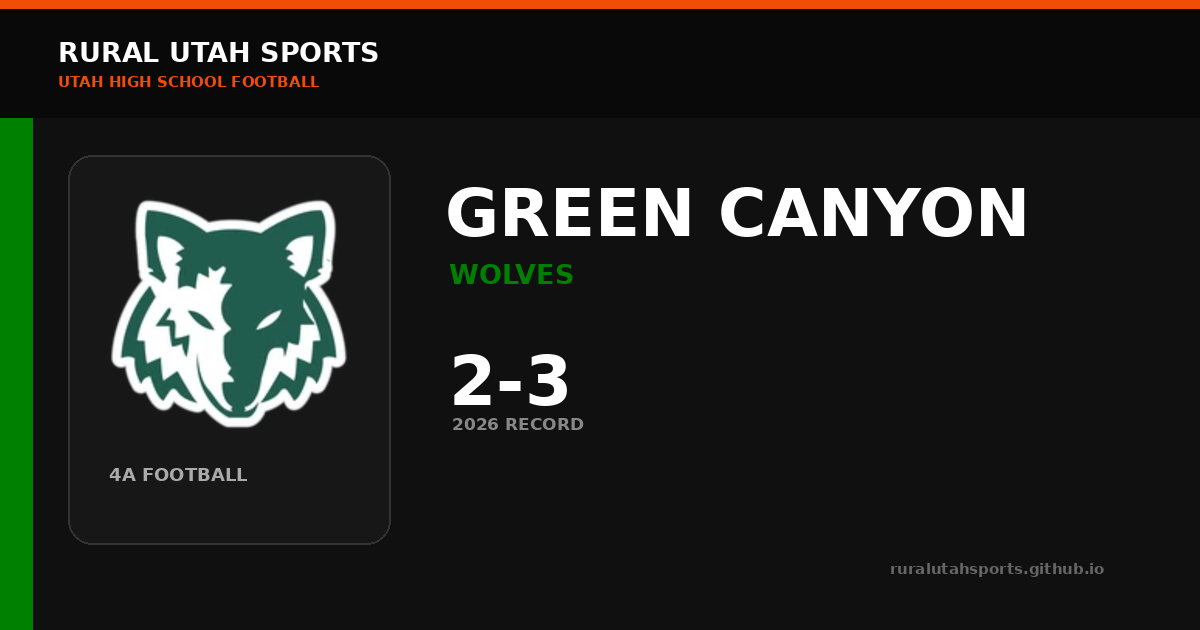
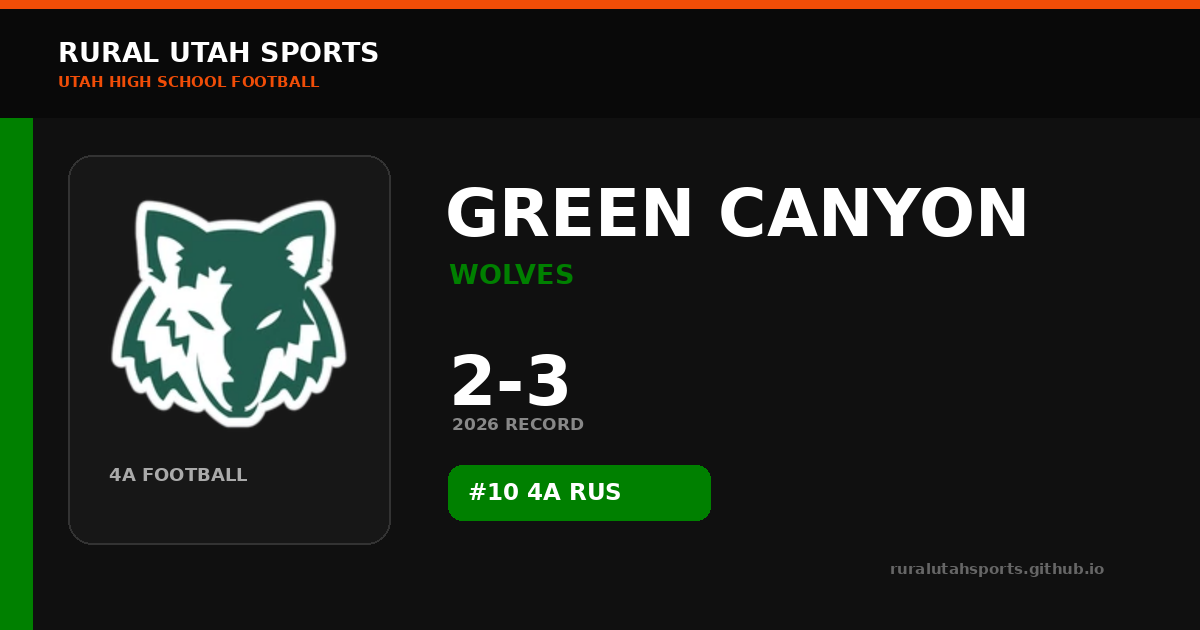
Auto-build social share previews

Changed region(s): [[0.37, 0.7238, 0.6167, 0.8444]]

diff --git a/share/team/mountain-crest/index.html b/share/team/mountain-crest/index.html
@@ -1,5 +1,5 @@
 <!doctype html><html lang="en"><head><meta charset="utf-8"><meta name="viewport" content="width=device-width,initial-scale=1">
-<title>Mountain Crest Mustangs Football | Rural Utah Sports</title><meta name="description" content="2026 4A football • 3-2 • #7 4A RUS. Team history, games, rankings, ELO and stats."><meta name="robots" content="noindex,follow"><link rel="canonical" href="https://ruralutahsports.github.io/rural-utah-sports/team.html?team=MOUNTAIN%20CREST">
-<meta property="og:type" content="website"><meta property="og:site_name" content="Rural Utah Sports"><meta property="og:title" content="Mountain Crest Mustangs Football | Rural Utah Sports"><meta property="og:description" content="2026 4A football • 3-2 • #7 4A RUS. Team history, games, rankings, ELO and stats."><meta property="og:url" content="https://ruralutahsports.github.io/rural-utah-sports/share/team/mountain-crest/"><meta property="og:image" content="https://ruralutahsports.github.io/rural-utah-sports/share-images/teams/mountain-crest.png"><meta property="og:image:width" content="1200"><meta property="og:image:height" content="630">
-<meta name="twitter:card" content="summary_large_image"><meta name="twitter:title" content="Mountain Crest Mustangs Football | Rural Utah Sports"><meta name="twitter:description" content="2026 4A football • 3-2 • #7 4A RUS. Team history, games, rankings, ELO and stats."><meta name="twitter:image" content="https://ruralutahsports.github.io/rural-utah-sports/share-images/teams/mountain-crest.png"><meta http-equiv="refresh" content="0;url=https://ruralutahsports.github.io/rural-utah-sports/team.html?team=MOUNTAIN%20CREST">
+<title>Mountain Crest Mustangs Football | Rural Utah Sports</title><meta name="description" content="2026 4A football • 3-2 • #9 4A RUS. Team history, games, rankings, ELO and stats."><meta name="robots" content="noindex,follow"><link rel="canonical" href="https://ruralutahsports.github.io/rural-utah-sports/team.html?team=MOUNTAIN%20CREST">
+<meta property="og:type" content="website"><meta property="og:site_name" content="Rural Utah Sports"><meta property="og:title" content="Mountain Crest Mustangs Football | Rural Utah Sports"><meta property="og:description" content="2026 4A football • 3-2 • #9 4A RUS. Team history, games, rankings, ELO and stats."><meta property="og:url" content="https://ruralutahsports.github.io/rural-utah-sports/share/team/mountain-crest/"><meta property="og:image" content="https://ruralutahsports.github.io/rural-utah-sports/share-images/teams/mountain-crest.png"><meta property="og:image:width" content="1200"><meta property="og:image:height" content="630">
+<meta name="twitter:card" content="summary_large_image"><meta name="twitter:title" content="Mountain Crest Mustangs Football | Rural Utah Sports"><meta name="twitter:description" content="2026 4A football • 3-2 • #9 4A RUS. Team history, games, rankings, ELO and stats."><meta name="twitter:image" content="https://ruralutahsports.github.io/rural-utah-sports/share-images/teams/mountain-crest.png"><meta http-equiv="refresh" content="0;url=https://ruralutahsports.github.io/rural-utah-sports/team.html?team=MOUNTAIN%20CREST">
 <style>body{margin:0;background:#111;color:#fff;font:16px Arial,sans-serif;display:grid;place-items:center;min-height:100vh}a{color:#F14D07;font-weight:800}</style></head><body><p>Opening <a href="https://ruralutahsports.github.io/rural-utah-sports/team.html?team=MOUNTAIN%20CREST">Mountain Crest Mustangs Football | Rural Utah Sports</a>…</p><script>location.replace("https://ruralutahsports.github.io/rural-utah-sports/team.html?team=MOUNTAIN%20CREST");</script></body></html>

diff --git a/share/team/snow-canyon/index.html b/share/team/snow-canyon/index.html
@@ -1,5 +1,5 @@
 <!doctype html><html lang="en"><head><meta charset="utf-8"><meta name="viewport" content="width=device-width,initial-scale=1">
-<title>Snow Canyon Warriors Football | Rural Utah Sports</title><meta name="description" content="2026 4A football • 3-2 • #9 4A RUS. Team history, games, rankings, ELO and stats."><meta name="robots" content="noindex,follow"><link rel="canonical" href="https://ruralutahsports.github.io/rural-utah-sports/team.html?team=SNOW%20CANYON">
-<meta property="og:type" content="website"><meta property="og:site_name" content="Rural Utah Sports"><meta property="og:title" content="Snow Canyon Warriors Football | Rural Utah Sports"><meta property="og:description" content="2026 4A football • 3-2 • #9 4A RUS. Team history, games, rankings, ELO and stats."><meta property="og:url" content="https://ruralutahsports.github.io/rural-utah-sports/share/team/snow-canyon/"><meta property="og:image" content="https://ruralutahsports.github.io/rural-utah-sports/share-images/teams/snow-canyon.png"><meta property="og:image:width" content="1200"><meta property="og:image:height" content="630">
-<meta name="twitter:card" content="summary_large_image"><meta name="twitter:title" content="Snow Canyon Warriors Football | Rural Utah Sports"><meta name="twitter:description" content="2026 4A football • 3-2 • #9 4A RUS. Team history, games, rankings, ELO and stats."><meta name="twitter:image" content="https://ruralutahsports.github.io/rural-utah-sports/share-images/teams/snow-canyon.png"><meta http-equiv="refresh" content="0;url=https://ruralutahsports.github.io/rural-utah-sports/team.html?team=SNOW%20CANYON">
+<title>Snow Canyon Warriors Football | Rural Utah Sports</title><meta name="description" content="2026 4A football • 3-2 • #7 4A RUS. Team history, games, rankings, ELO and stats."><meta name="robots" content="noindex,follow"><link rel="canonical" href="https://ruralutahsports.github.io/rural-utah-sports/team.html?team=SNOW%20CANYON">
+<meta property="og:type" content="website"><meta property="og:site_name" content="Rural Utah Sports"><meta property="og:title" content="Snow Canyon Warriors Football | Rural Utah Sports"><meta property="og:description" content="2026 4A football • 3-2 • #7 4A RUS. Team history, games, rankings, ELO and stats."><meta property="og:url" content="https://ruralutahsports.github.io/rural-utah-sports/share/team/snow-canyon/"><meta property="og:image" content="https://ruralutahsports.github.io/rural-utah-sports/share-images/teams/snow-canyon.png"><meta property="og:image:width" content="1200"><meta property="og:image:height" content="630">
+<meta name="twitter:card" content="summary_large_image"><meta name="twitter:title" content="Snow Canyon Warriors Football | Rural Utah Sports"><meta name="twitter:description" content="2026 4A football • 3-2 • #7 4A RUS. Team history, games, rankings, ELO and stats."><meta name="twitter:image" content="https://ruralutahsports.github.io/rural-utah-sports/share-images/teams/snow-canyon.png"><meta http-equiv="refresh" content="0;url=https://ruralutahsports.github.io/rural-utah-sports/team.html?team=SNOW%20CANYON">
 <style>body{margin:0;background:#111;color:#fff;font:16px Arial,sans-serif;display:grid;place-items:center;min-height:100vh}a{color:#F14D07;font-weight:800}</style></head><body><p>Opening <a href="https://ruralutahsports.github.io/rural-utah-sports/team.html?team=SNOW%20CANYON">Snow Canyon Warriors Football | Rural Utah Sports</a>…</p><script>location.replace("https://ruralutahsports.github.io/rural-utah-sports/team.html?team=SNOW%20CANYON");</script></body></html>

diff --git a/share/team/desert-hills/index.html b/share/team/desert-hills/index.html
@@ -1,5 +1,5 @@
 <!doctype html><html lang="en"><head><meta charset="utf-8"><meta name="viewport" content="width=device-width,initial-scale=1">
-<title>Desert Hills Thunder Football | Rural Utah Sports</title><meta name="description" content="2026 4A football • 2-3 • #10 4A RUS. Team history, games, rankings, ELO and stats."><meta name="robots" content="noindex,follow"><link rel="canonical" href="https://ruralutahsports.github.io/rural-utah-sports/team.html?team=DESERT%20HILLS">
-<meta property="og:type" content="website"><meta property="og:site_name" content="Rural Utah Sports"><meta property="og:title" content="Desert Hills Thunder Football | Rural Utah Sports"><meta property="og:description" content="2026 4A football • 2-3 • #10 4A RUS. Team history, games, rankings, ELO and stats."><meta property="og:url" content="https://ruralutahsports.github.io/rural-utah-sports/share/team/desert-hills/"><meta property="og:image" content="https://ruralutahsports.github.io/rural-utah-sports/share-images/teams/desert-hills.png"><meta property="og:image:width" content="1200"><meta property="og:image:height" content="630">
-<meta name="twitter:card" content="summary_large_image"><meta name="twitter:title" content="Desert Hills Thunder Football | Rural Utah Sports"><meta name="twitter:description" content="2026 4A football • 2-3 • #10 4A RUS. Team history, games, rankings, ELO and stats."><meta name="twitter:image" content="https://ruralutahsports.github.io/rural-utah-sports/share-images/teams/desert-hills.png"><meta http-equiv="refresh" content="0;url=https://ruralutahsports.github.io/rural-utah-sports/team.html?team=DESERT%20HILLS">
+<title>Desert Hills Thunder Football | Rural Utah Sports</title><meta name="description" content="2026 4A football • 2-3. Team history, games, rankings, ELO and stats."><meta name="robots" content="noindex,follow"><link rel="canonical" href="https://ruralutahsports.github.io/rural-utah-sports/team.html?team=DESERT%20HILLS">
+<meta property="og:type" content="website"><meta property="og:site_name" content="Rural Utah Sports"><meta property="og:title" content="Desert Hills Thunder Football | Rural Utah Sports"><meta property="og:description" content="2026 4A football • 2-3. Team history, games, rankings, ELO and stats."><meta property="og:url" content="https://ruralutahsports.github.io/rural-utah-sports/share/team/desert-hills/"><meta property="og:image" content="https://ruralutahsports.github.io/rural-utah-sports/share-images/teams/desert-hills.png"><meta property="og:image:width" content="1200"><meta property="og:image:height" content="630">
+<meta name="twitter:card" content="summary_large_image"><meta name="twitter:title" content="Desert Hills Thunder Football | Rural Utah Sports"><meta name="twitter:description" content="2026 4A football • 2-3. Team history, games, rankings, ELO and stats."><meta name="twitter:image" content="https://ruralutahsports.github.io/rural-utah-sports/share-images/teams/desert-hills.png"><meta http-equiv="refresh" content="0;url=https://ruralutahsports.github.io/rural-utah-sports/team.html?team=DESERT%20HILLS">
 <style>body{margin:0;background:#111;color:#fff;font:16px Arial,sans-serif;display:grid;place-items:center;min-height:100vh}a{color:#F14D07;font-weight:800}</style></head><body><p>Opening <a href="https://ruralutahsports.github.io/rural-utah-sports/team.html?team=DESERT%20HILLS">Desert Hills Thunder Football | Rural Utah Sports</a>…</p><script>location.replace("https://ruralutahsports.github.io/rural-utah-sports/team.html?team=DESERT%20HILLS");</script></body></html>

diff --git a/share/team/green-canyon/index.html b/share/team/green-canyon/index.html
@@ -1,5 +1,5 @@
 <!doctype html><html lang="en"><head><meta charset="utf-8"><meta name="viewport" content="width=device-width,initial-scale=1">
-<title>Green Canyon Wolves Football | Rural Utah Sports</title><meta name="description" content="2026 4A football • 2-3. Team history, games, rankings, ELO and stats."><meta name="robots" content="noindex,follow"><link rel="canonical" href="https://ruralutahsports.github.io/rural-utah-sports/team.html?team=GREEN%20CANYON">
-<meta property="og:type" content="website"><meta property="og:site_name" content="Rural Utah Sports"><meta property="og:title" content="Green Canyon Wolves Football | Rural Utah Sports"><meta property="og:description" content="2026 4A football • 2-3. Team history, games, rankings, ELO and stats."><meta property="og:url" content="https://ruralutahsports.github.io/rural-utah-sports/share/team/green-canyon/"><meta property="og:image" content="https://ruralutahsports.github.io/rural-utah-sports/share-images/teams/green-canyon.png"><meta property="og:image:width" content="1200"><meta property="og:image:height" content="630">
-<meta name="twitter:card" content="summary_large_image"><meta name="twitter:title" content="Green Canyon Wolves Football | Rural Utah Sports"><meta name="twitter:description" content="2026 4A football • 2-3. Team history, games, rankings, ELO and stats."><meta name="twitter:image" content="https://ruralutahsports.github.io/rural-utah-sports/share-images/teams/green-canyon.png"><meta http-equiv="refresh" content="0;url=https://ruralutahsports.github.io/rural-utah-sports/team.html?team=GREEN%20CANYON">
+<title>Green Canyon Wolves Football | Rural Utah Sports</title><meta name="description" content="2026 4A football • 2-3 • #10 4A RUS. Team history, games, rankings, ELO and stats."><meta name="robots" content="noindex,follow"><link rel="canonical" href="https://ruralutahsports.github.io/rural-utah-sports/team.html?team=GREEN%20CANYON">
+<meta property="og:type" content="website"><meta property="og:site_name" content="Rural Utah Sports"><meta property="og:title" content="Green Canyon Wolves Football | Rural Utah Sports"><meta property="og:description" content="2026 4A football • 2-3 • #10 4A RUS. Team history, games, rankings, ELO and stats."><meta property="og:url" content="https://ruralutahsports.github.io/rural-utah-sports/share/team/green-canyon/"><meta property="og:image" content="https://ruralutahsports.github.io/rural-utah-sports/share-images/teams/green-canyon.png"><meta property="og:image:width" content="1200"><meta property="og:image:height" content="630">
+<meta name="twitter:card" content="summary_large_image"><meta name="twitter:title" content="Green Canyon Wolves Football | Rural Utah Sports"><meta name="twitter:description" content="2026 4A football • 2-3 • #10 4A RUS. Team history, games, rankings, ELO and stats."><meta name="twitter:image" content="https://ruralutahsports.github.io/rural-utah-sports/share-images/teams/green-canyon.png"><meta http-equiv="refresh" content="0;url=https://ruralutahsports.github.io/rural-utah-sports/team.html?team=GREEN%20CANYON">
 <style>body{margin:0;background:#111;color:#fff;font:16px Arial,sans-serif;display:grid;place-items:center;min-height:100vh}a{color:#F14D07;font-weight:800}</style></head><body><p>Opening <a href="https://ruralutahsports.github.io/rural-utah-sports/team.html?team=GREEN%20CANYON">Green Canyon Wolves Football | Rural Utah Sports</a>…</p><script>location.replace("https://ruralutahsports.github.io/rural-utah-sports/team.html?team=GREEN%20CANYON");</script></body></html>

diff --git a/share/team/salem-hills/index.html b/share/team/salem-hills/index.html
@@ -1,5 +1,5 @@
 <!doctype html><html lang="en"><head><meta charset="utf-8"><meta name="viewport" content="width=device-width,initial-scale=1">
-<title>Salem Hills Skyhawks Football | Rural Utah Sports</title><meta name="description" content="2026 4A football • 3-2 • #8 4A RUS. Team history, games, rankings, ELO and stats."><meta name="robots" content="noindex,follow"><link rel="canonical" href="https://ruralutahsports.github.io/rural-utah-sports/team.html?team=SALEM%20HILLS">
-<meta property="og:type" content="website"><meta property="og:site_name" content="Rural Utah Sports"><meta property="og:title" content="Salem Hills Skyhawks Football | Rural Utah Sports"><meta property="og:description" content="2026 4A football • 3-2 • #8 4A RUS. Team history, games, rankings, ELO and stats."><meta property="og:url" content="https://ruralutahsports.github.io/rural-utah-sports/share/team/salem-hills/"><meta property="og:image" content="https://ruralutahsports.github.io/rural-utah-sports/share-images/teams/salem-hills.png"><meta property="og:image:width" content="1200"><meta property="og:image:height" content="630">
-<meta name="twitter:card" content="summary_large_image"><meta name="twitter:title" content="Salem Hills Skyhawks Football | Rural Utah Sports"><meta name="twitter:description" content="2026 4A football • 3-2 • #8 4A RUS. Team history, games, rankings, ELO and stats."><meta name="twitter:image" content="https://ruralutahsports.github.io/rural-utah-sports/share-images/teams/salem-hills.png"><meta http-equiv="refresh" content="0;url=https://ruralutahsports.github.io/rural-utah-sports/team.html?team=SALEM%20HILLS">
+<title>Salem Hills Skyhawks Football | Rural Utah Sports</title><meta name="description" content="2026 4A football • 3-2. Team history, games, rankings, ELO and stats."><meta name="robots" content="noindex,follow"><link rel="canonical" href="https://ruralutahsports.github.io/rural-utah-sports/team.html?team=SALEM%20HILLS">
+<meta property="og:type" content="website"><meta property="og:site_name" content="Rural Utah Sports"><meta property="og:title" content="Salem Hills Skyhawks Football | Rural Utah Sports"><meta property="og:description" content="2026 4A football • 3-2. Team history, games, rankings, ELO and stats."><meta property="og:url" content="https://ruralutahsports.github.io/rural-utah-sports/share/team/salem-hills/"><meta property="og:image" content="https://ruralutahsports.github.io/rural-utah-sports/share-images/teams/salem-hills.png"><meta property="og:image:width" content="1200"><meta property="og:image:height" content="630">
+<meta name="twitter:card" content="summary_large_image"><meta name="twitter:title" content="Salem Hills Skyhawks Football | Rural Utah Sports"><meta name="twitter:description" content="2026 4A football • 3-2. Team history, games, rankings, ELO and stats."><meta name="twitter:image" content="https://ruralutahsports.github.io/rural-utah-sports/share-images/teams/salem-hills.png"><meta http-equiv="refresh" content="0;url=https://ruralutahsports.github.io/rural-utah-sports/team.html?team=SALEM%20HILLS">
 <style>body{margin:0;background:#111;color:#fff;font:16px Arial,sans-serif;display:grid;place-items:center;min-height:100vh}a{color:#F14D07;font-weight:800}</style></head><body><p>Opening <a href="https://ruralutahsports.github.io/rural-utah-sports/team.html?team=SALEM%20HILLS">Salem Hills Skyhawks Football | Rural Utah Sports</a>…</p><script>location.replace("https://ruralutahsports.github.io/rural-utah-sports/team.html?team=SALEM%20HILLS");</script></body></html>

diff --git a/share/team/sky-view/index.html b/share/team/sky-view/index.html
@@ -1,5 +1,5 @@
 <!doctype html><html lang="en"><head><meta charset="utf-8"><meta name="viewport" content="width=device-width,initial-scale=1">
-<title>Sky View Bobcats Football | Rural Utah Sports</title><meta name="description" content="2026 4A football • 2-3. Team history, games, rankings, ELO and stats."><meta name="robots" content="noindex,follow"><link rel="canonical" href="https://ruralutahsports.github.io/rural-utah-sports/team.html?team=SKY%20VIEW">
-<meta property="og:type" content="website"><meta property="og:site_name" content="Rural Utah Sports"><meta property="og:title" content="Sky View Bobcats Football | Rural Utah Sports"><meta property="og:description" content="2026 4A football • 2-3. Team history, games, rankings, ELO and stats."><meta property="og:url" content="https://ruralutahsports.github.io/rural-utah-sports/share/team/sky-view/"><meta property="og:image" content="https://ruralutahsports.github.io/rural-utah-sports/share-images/teams/sky-view.png"><meta property="og:image:width" content="1200"><meta property="og:image:height" content="630">
-<meta name="twitter:card" content="summary_large_image"><meta name="twitter:title" content="Sky View Bobcats Football | Rural Utah Sports"><meta name="twitter:description" content="2026 4A football • 2-3. Team history, games, rankings, ELO and stats."><meta name="twitter:image" content="https://ruralutahsports.github.io/rural-utah-sports/share-images/teams/sky-view.png"><meta http-equiv="refresh" content="0;url=https://ruralutahsports.github.io/rural-utah-sports/team.html?team=SKY%20VIEW">
+<title>Sky View Bobcats Football | Rural Utah Sports</title><meta name="description" content="2026 4A football • 2-3 • #8 4A RUS. Team history, games, rankings, ELO and stats."><meta name="robots" content="noindex,follow"><link rel="canonical" href="https://ruralutahsports.github.io/rural-utah-sports/team.html?team=SKY%20VIEW">
+<meta property="og:type" content="website"><meta property="og:site_name" content="Rural Utah Sports"><meta property="og:title" content="Sky View Bobcats Football | Rural Utah Sports"><meta property="og:description" content="2026 4A football • 2-3 • #8 4A RUS. Team history, games, rankings, ELO and stats."><meta property="og:url" content="https://ruralutahsports.github.io/rural-utah-sports/share/team/sky-view/"><meta property="og:image" content="https://ruralutahsports.github.io/rural-utah-sports/share-images/teams/sky-view.png"><meta property="og:image:width" content="1200"><meta property="og:image:height" content="630">
+<meta name="twitter:card" content="summary_large_image"><meta name="twitter:title" content="Sky View Bobcats Football | Rural Utah Sports"><meta name="twitter:description" content="2026 4A football • 2-3 • #8 4A RUS. Team history, games, rankings, ELO and stats."><meta name="twitter:image" content="https://ruralutahsports.github.io/rural-utah-sports/share-images/teams/sky-view.png"><meta http-equiv="refresh" content="0;url=https://ruralutahsports.github.io/rural-utah-sports/team.html?team=SKY%20VIEW">
 <style>body{margin:0;background:#111;color:#fff;font:16px Arial,sans-serif;display:grid;place-items:center;min-height:100vh}a{color:#F14D07;font-weight:800}</style></head><body><p>Opening <a href="https://ruralutahsports.github.io/rural-utah-sports/team.html?team=SKY%20VIEW">Sky View Bobcats Football | Rural Utah Sports</a>…</p><script>location.replace("https://ruralutahsports.github.io/rural-utah-sports/team.html?team=SKY%20VIEW");</script></body></html>
